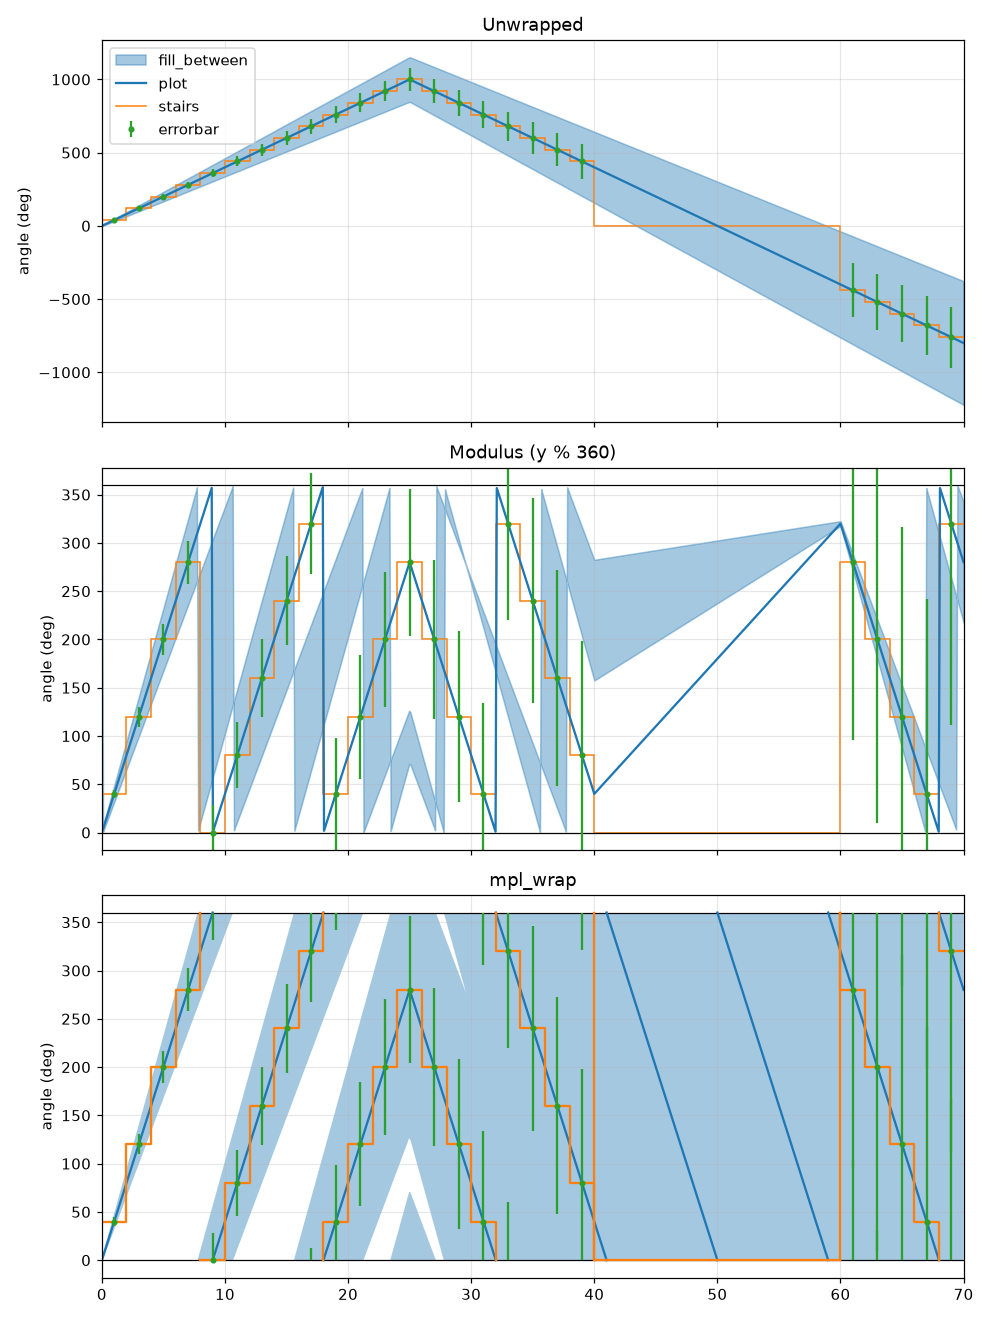
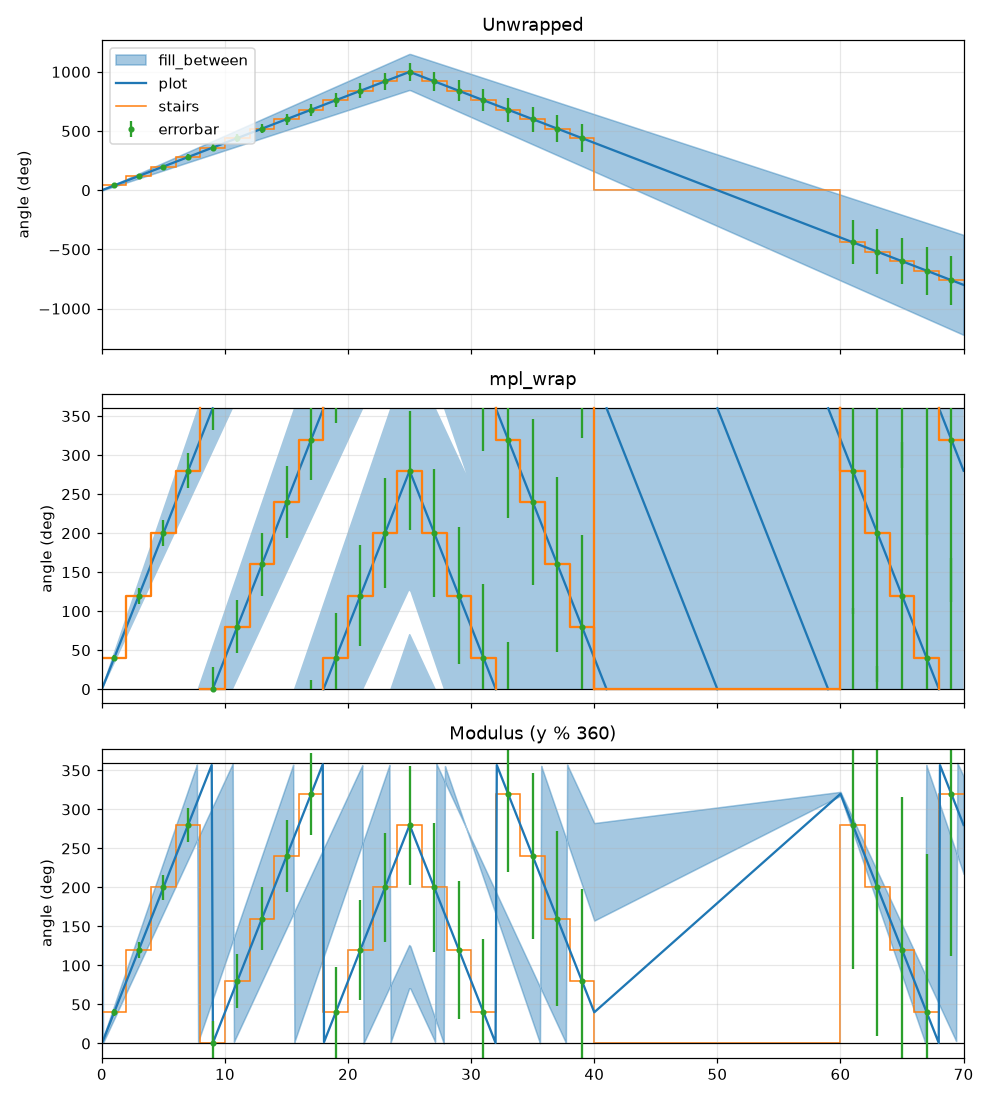
Release prep

diff --git a/docs/gen_graphics.py b/docs/gen_graphics.py
@@ -80,7 +80,7 @@ def wrapy_demo(savedir: Path = SAVEDIR) -> None:
     stairs_style: dict[str, Any] = {"color": "C1", "label": "stairs"}
     err_style: dict[str, Any] = {"fmt": "o", "ms": 3, "color": "C2", "label": "errorbar"}
 
-    fig, axs = plt.subplots(3, 1, figsize=(9, 12), sharex=True)
+    fig, axs = plt.subplots(3, 1, figsize=(9, 10), sharex=True)
     for index, ax in enumerate(axs):
         ax.set(xlim=(x[0], x[-1]), ylabel="angle (deg)")
         ax.grid(True, alpha=0.3)
@@ -95,17 +95,17 @@ def wrapy_demo(savedir: Path = SAVEDIR) -> None:
     axs[0].stairs(values, edges, baseline=None, **stairs_style)
     axs[0].errorbar(err_x, err_y, err_yerr, **err_style)
 
-    axs[1].set_title("Modulus (y % 360)")
-    axs[1].fill_between(x, lower % period, upper % period, **band_style)
-    axs[1].plot(x, center % period, **line_style)
-    axs[1].stairs(values % period, edges, baseline=None, **stairs_style)
-    axs[1].errorbar(err_x, err_y % period, err_yerr, **err_style)
+    axs[1].set_title("mpl_wrap")
+    fill_between_wrapped(axs[1], x, lower, upper, **band_style)
+    plot_wrapped(axs[1], x, center, **line_style)
+    stairs_wrapped(axs[1], values, edges, **stairs_style)
+    errorbar_wrapped(axs[1], err_x, err_y, err_yerr, **err_style)
 
-    axs[2].set_title("mpl_wrap")
-    fill_between_wrapped(axs[2], x, lower, upper, **band_style)
-    plot_wrapped(axs[2], x, center, **line_style)
-    stairs_wrapped(axs[2], values, edges, **stairs_style)
-    errorbar_wrapped(axs[2], err_x, err_y, err_yerr, **err_style)
+    axs[2].set_title("Modulus (y % 360)")
+    axs[2].fill_between(x, lower % period, upper % period, **band_style)
+    axs[2].plot(x, center % period, **line_style)
+    axs[2].stairs(values % period, edges, baseline=None, **stairs_style)
+    axs[2].errorbar(err_x, err_y % period, err_yerr, **err_style)
 
     axs[0].legend(loc="upper left")
     _save_demo(fig, savedir, "wrapy_demo.png")

diff --git a/src/mpl_wrap/plot.py b/src/mpl_wrap/plot.py
@@ -88,8 +88,8 @@ def _resolve_wrap(ax: Axes, name: str, wrap: WrapSpec) -> np.ndarray | None:
     if wrap is True:
         if name not in stored:
             raise ValueError(
-                f"wrap{name}=True, but no {name} wrap window is stored on this axes; "
-                f"call set_wrap(ax, wrap{name}=...) first"
+                f"wrap{name}=True, but no {name} wrap window is stored on this axes. "
+                f"Call set_wrap(ax, wrap{name}=...) first."
             )
         return stored[name]
     if wrap is not None:
@@ -155,7 +155,7 @@ def set_wrap(
         if wrap is None:
             continue
         if wrap is True:
-            raise ValueError(f"wrap{name}=True is not valid in set_wrap; pass a (min, max) window")
+            raise ValueError(f"wrap{name}=True is not valid in set_wrap. Pass a (min, max) window.")
         if wrap is False:
             windows.pop(name, None)
             continue

diff --git a/src/mpl_wrap/data.py b/src/mpl_wrap/data.py
@@ -1,7 +1,7 @@
 """Pure data processing for wrapping: fold arrays into a (min, max) window.
 
 Numeric arrays in, numeric arrays out - no ``Axes`` and no artists. `wrap_line`
-and `wrap_points` are the public entry points; the plotting helpers in
+and `wrap_points` are the public entry points. The plotting helpers in
 ``mpl_wrap.plot`` consume them after resolving axis units and stored windows.
 """
 

diff --git a/CHANGELOG.md b/CHANGELOG.md
@@ -2,12 +2,17 @@
 
 ## Future Work
 ### Features & Maintenance:
-- Numerical + smoke test suite
-- README documentation with generated example graphics
 
 ----
 
 ## [Unreleased]
+### Added
+### Changed
+### Removed
+
+## [0.1.0] - 2026-07-18
+Initial release!
+
 ### Added
 * `plot_wrapped`, `scatter_wrapped`, `fill_between_wrapped`, `stairs_wrapped`,
   and `errorbar_wrapped` helpers for plotting continuous (unwrapped) data on
@@ -16,10 +21,6 @@
   by default), optionally setting axis limits and drawing seam lines
 * `AxesWrap` class with the helpers as methods, available as the `"wrap"`
   projection, and `wrap_axes` to upgrade an existing axes of any projection in
-  place (picklable in both cases)
+  place
 * `wrap_line` and `wrap_points` data-processing functions that return the
   wrapped arrays without plotting, also available as `AxesWrap` methods
-* `wrapx`/`wrapy` accept `True` to require the stored window and `False` to
-  disable wrapping for a single call
-### Changed
-### Removed

diff --git a/README.md b/README.md
@@ -16,12 +16,16 @@ but introduces a few problems:
 data easy.
 
 <p align="center">
-  <img src="docs/wrapy_demo.png" alt="Unwrapped vs modulus vs mpl_wrap" width="600">
+  <img src="https://raw.githubusercontent.com/scottshambaugh/mpl_wrap/main/docs/wrapy_demo.png" alt="Unwrapped vs modulus vs mpl_wrap" width="600">
 </p>
 
 ## Installation
 
-Not yet released to PyPI. Install from source:
+```
+pip install mpl_wrap
+```
+
+Or install from source:
 
 ```
 git clone https://github.com/scottshambaugh/mpl_wrap.git
@@ -49,7 +53,7 @@ ax.legend()
 ```
 
 <p align="center">
-  <img src="docs/basic_usage.png" alt="Basic usage: wrapped angle with uncertainty band and error bars" width="600">
+  <img src="https://raw.githubusercontent.com/scottshambaugh/mpl_wrap/main/docs/basic_usage.png" alt="Basic usage: wrapped angle with uncertainty band and error bars" width="600">
 </p>
 
 The helpers mirror their matplotlib counterparts, taking the target `Axes` as
@@ -106,7 +110,7 @@ take data plus windows and return the wrapped arrays without plotting anything
 Both axes can be wrapped independently or together:
 
 <p align="center">
-  <img src="docs/circle_demo.png" alt="Circle wrapped in x, y, and both" width="500">
+  <img src="https://raw.githubusercontent.com/scottshambaugh/mpl_wrap/main/docs/circle_demo.png" alt="Circle wrapped in x, y, and both" width="500">
 </p>
 
 ### Datetime axes
@@ -120,5 +124,5 @@ plot_wrapped(ax, times, signal)
 ```
 
 <p align="center">
-  <img src="docs/datetime_demo.png" alt="Datetime wrapping" width="600">
+  <img src="https://raw.githubusercontent.com/scottshambaugh/mpl_wrap/main/docs/datetime_demo.png" alt="Datetime wrapping" width="600">
 </p>